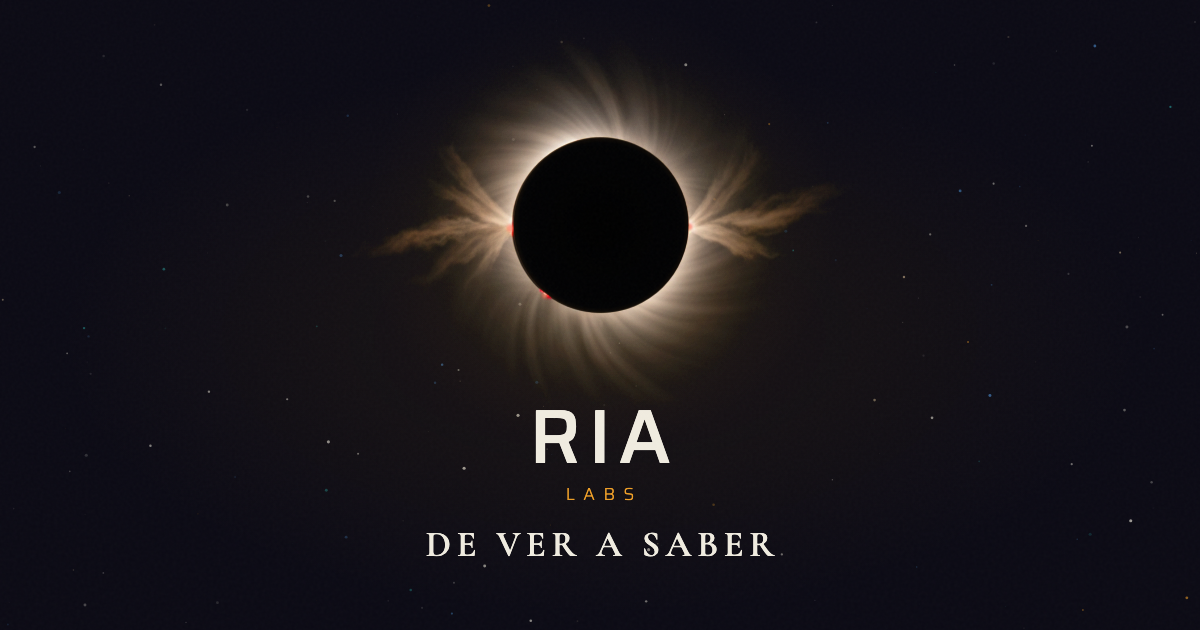
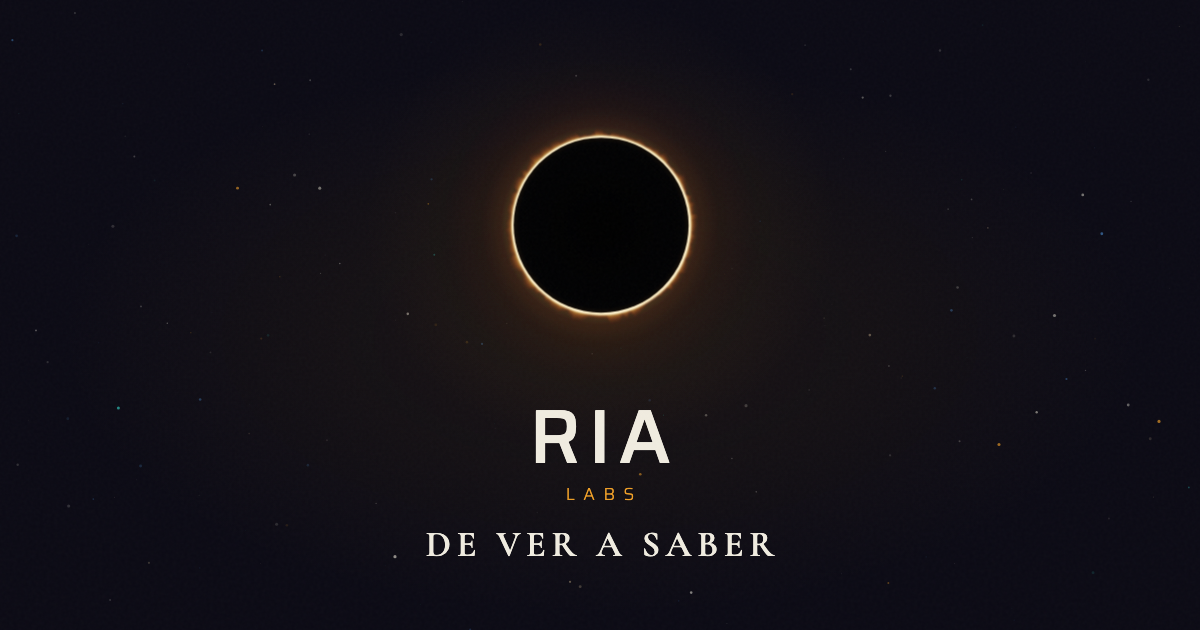
CONTENIDO y tarjeta OG: el pulido del hero (flama ecuánime, estrella, desenclipsar apagado, anillo, fuera Byte × VRIO)
§0.1 el pulido con técnica y períodos; §0.3 assets (la corona fotográfica ya no se carga, sol y luna en data-href,
el anillo, el favicon, capturar-home con estrella=); §0.4 pendientes nuevos (favicon.ico, PNG de los lockups,
menciones a Byte y VRIO que quedan, la nav si vuelve el ciclo); §9.3 el anillo; og-image.png regenerada con la
flama y sin estrella.

Changed region(s): [[0.3083, 0.1206, 0.6783, 0.6032]]

diff --git a/CONTENIDO.md b/CONTENIDO.md
@@ -100,6 +100,51 @@
   `defs` porque los usa el diagrama de Dataflow. Vuelve en la banda de Dataflow como el motor, en el
   separador de Equipo (Byte y VRIO, heredado de v4) y en los dos retratos: esos siguen vectoriales. Cómo se
   generó, qué se eligió y qué costó: §0.3.
+- **Pulido del hero** (rama `hero-pulido`, 2026-10-13; pedido verbatim de Matías en el registro de prompts: *«el
+  juego del click y la orbita del ente eclipsante lo vamos a apagar por ahora… la flama en el aureola del eclipse es
+  exagerada, prefiero que no haya flama o si la hay que sea ecuanime en todo el diametro de la circunferencia y muy
+  sutil, y en movimiento… si cada tanto puede asomar una estrella de luz… la screen 2 es una idea que me gusta como
+  logo»*; las tres capturas de referencia quedaron en `_capturas/referencias-eclipse/`, fuera de git). Cinco cosas:
+  - **La corona es una flama ecuánime, procedural.** Fuera la foto con streamers (`assets/eclipse-corona.webp` queda
+    en el repo, pero la página ya no la carga). En su lugar un `<canvas>` (`#sis-flama`, script «FLAMA») debajo del
+    SVG, centrado en la luna y siguiéndola en su libración, así el aro queda parejo: para cada ángulo, un hilo de luz
+    amarillo pálido pegado al limbo (una campana de 1,5 px a 0,9 px del borde negro, con el brillo modulado ±8 %) y una
+    lengua corta —de 4,5 a 17 % del radio— que va del amarillo pálido al ámbar, al naranja y al rojo, cuyo largo sale
+    de dos octavas de ruido periódico: 48 y 144 puntos de control alrededor del aro, cada uno pasando de un valor al
+    azar al siguiente (smoothstep) en 1,4–3,2 s y en 0,5–1,2 s, y las dos octavas derivando despacio en sentidos
+    opuestos (una vuelta en 240 s y en 150 s). Titila sin saltos y la turbulencia recorre el borde. Se pinta por píxel
+    sobre una lista fija del anillo (distancia al limbo y ángulo de cada píxel, precalculada al medir: ~80 mil píxeles
+    a 1440) con dos tablas de color, a 24 fps y sólo con el hero a la vista y la pestaña visible; DPR tope 2 y lado
+    tope 640 px. Alrededor, `#sis-aureola`: un gradiente radial rojizo en CSS que respira en 7 s y de día se apaga.
+    Las tres protuberancias rojas del SVG se fueron (la flama es pareja, sin accidentes). Sin canvas, vuelve el halo
+    vectorial (`.sin-corona`). De lejos se lee como un aro de luz fino y vivo, no como fuego; de cerca, como la
+    screen 3. Pesa cero: no hay imagen.
+  - **La estrella de luz.** Cada tanto asoma en un punto del borde (`#sis-estrella`, script «ESTRELLA»): un núcleo
+    blanco que crece en el primer tercio y se apaga en los dos restantes (3,2 s), seis rayos de lente finos con
+    degradé a la punta (uno largo, de 150 unidades; el conjunto rota al azar ±45°) y un glare suave de 64 unidades.
+    La primera a los 4,5 s de cargar; después a intervalos irregulares de 25 a 60 s, nunca dos seguidas a menos de 50°
+    una de otra, sólo con el hero a la vista, la pestaña visible y en noche. `?estrella=<ms>` la fija en ese instante
+    arriba a la derecha (1000 = el pico) para fotografiarla; `?estrella=no` la apaga. Con `prefers-reduced-motion`:
+    sin estrella, flama quieta (un cuadro) y aureola sin respirar.
+  - **El desenclipsar está apagado, no borrado.** `DESENCLIPSAR_ACTIVO = false` al principio de la IIFE: el ciclo
+    entero sigue en el código, sin disparadores —ni clic en el eclipse, ni en el logo (que vuelve a ser sólo el enlace
+    a `#inicio`), ni botón accesible, ni `aria-pressed`, ni cursor, ni la pista «tocá el eclipse»—. Los tres elementos
+    del SVG (`#sis-anillo`, `#sis-hint`, `#sis-hit`) y el botón `.ecl-btn` salieron del DOM; un comentario en el hero
+    los guarda textualmente y sus reglas CSS siguen. Los ganchos `?tema=dia` y `?ciclo=<ms>` andan para probarlo.
+    Para reactivar: la constante en `true` y devolver esos cuatro elementos. Lo que no vuelve solo: el isotipo de la
+    nav ya es el anillo y no tiene luna que acompañe el viaje (el ciclo lo tolera: `navLuna` queda en null). Las
+    fotos del sol y de la luna viajera (`eclipse-sol.webp`, `eclipse-luna.webp`) ya no se descargan al cargar la
+    página: van en `data-href` y el ciclo (o `?tema=dia`) las pide cuando las necesita.
+  - **El logo es el anillo** (la screen 2; §9.3 y `logos/README.md`). En la página, con mesura: el isotipo de la nav
+    (24 px, grosor 7,5 de 100 para que a ese tamaño siga siendo un aro), el pie (18 px, al 80 %), el `favicon.svg`
+    (grosor 9) y el separador entre Equipo y Contacto (58 px). El hero sigue siendo el eclipse grande, no el logo.
+  - **Fuera Byte × VRIO** (pedido de Matías del mismo día: *«vamos también a sacar las menciones a Byte y a VRIO de
+    la página»*): la línea `.hero-origin` del hero («Byte × VRIO», con enlaces a compu-byte.com.ar y vrio.ar) se fue
+    con su CSS; el pie dice «© 2026 RIA Labs · Rosario, Argentina»; el separador orbital de Equipo (los planetas Byte
+    y VRIO alrededor del eclipse, heredado de v4, con sus gradientes `vrio-grad`/`byte-grad` y su script) es ahora
+    el anillo solo (`#equipo-anillo`). Quedan para otra pasada la meta description («Nacidos de Byte y VRIO»), las
+    bios de Equipo (la casa Byte de Sebastián, VRIO Estudio en la de Matías) y el Laboratorio («dos puertas en
+    Rosario»).
 - **Cada vertical es un astro vivo con sus sabores en órbita** (viñeta `.prod-vis` de cada banda, SVG propio de
   480×400, vanilla; la superficie la arma y la mueve el script, según `data-astro`). El astro lleva la tecnología
   de la vertical en su superficie, en línea técnica sobre la esfera, no como ícono, y **se mueve**: mirarlo es
@@ -260,11 +305,13 @@
   la melena vuela al viento de un ventilador, el eclipse chico y al fondo, el mismo en los dos— y el jpg adentro
   como fallback. Arranca solo a la vista, se pausa al salir, y con `prefers-reduced-motion` queda la foto. Cómo
   se hizo y qué se midió, en §0.3.
-- **Nav**: Analítico · Espacio · Automoción (con el punto de color de cada uno) · Dataflow · Laboratorio ·
+- **Nav** (el isotipo es el anillo desde el 13/10): Analítico · Espacio · Automoción (con el punto de color de cada uno) · Dataflow · Laboratorio ·
   Equipo · *Conversemos*. En ≤860 px hay botón MENÚ con panel desplegable (v4 escondía los enlaces).
 - **Contacto**: el pre-título ahora es la pregunta del laboratorio («¿Tenés un problema que nadie resolvió?»)
-  y vuelve el copete de cierre. Footer © 2026.
-- **Desenclipsar: el eclipse se toca** (rama `desenclipsar`, 2026-10-10; pedido verbatim en el registro de
+  y vuelve el copete de cierre. Footer © 2026 (desde el 13/10, «© 2026 RIA Labs · Rosario, Argentina»: sin Byte × VRIO,
+  y con el anillo delante del wordmark).
+- **Desenclipsar: el eclipse se toca** — **apagado desde el 13/10** (`DESENCLIPSAR_ACTIVO = false`; ver el pulido
+  del hero, arriba; lo que sigue describe el ciclo tal como queda en el código) (rama `desenclipsar`, 2026-10-10; pedido verbatim en el registro de
   prompts). Un clic en el centro del eclipse del hero, o en el isotipo + wordmark de la nav (que sigue
   llevando a `#inicio`), dispara **un ciclo completo, no un toggle**: la luna sale del disco hacia la
   izquierda en trayectoria elíptica —*destape*, ~2,5 s, en los que el sol se enciende (disco, resplandor,
@@ -316,13 +363,15 @@
 | `assets/retrato-sebastian.mp4` / `.webm` · `assets/retrato-matias.mp4` / `.webm` | **retratos vivos** (2026-10-11): clips 720×900, 24 fps, en loop (9,67 s y 10,25 s), H.264 `yuv420p` sin audio + VP9. Sebastián 1,09 MB / 0,90 MB · Matías 0,83 MB / 0,65 MB |
 | `assets/retrato-sebastian-sobrio.jpg` · `assets/retrato-matias-sobrio.jpg` | la familia **sobria**: los mismos retratos sin la melena (~82 KB y ~79 KB, con el mismo eclipse unificado). Para cambiar de familia alcanza con renombrar; la sobria no tiene clip |
 | `scripts/generar-retratos-vivos.py` | cómo se hicieron el eclipse unificado y los retratos vivos (abajo): `fondo`, `video`, `post`, y `costura` para medir el loop |
-| `assets/eclipse-corona.webp` · `.jpg` | **la corona de la totalidad** (2026-10-12): WebP 1000×1000 con alfa desde la luminancia, 150 KB, el disco negro centrado a r = 0,1515 del lado. El jpg (37 KB) es la misma toma sobre negro, de respaldo y referencia; la página no lo usa |
-| `assets/eclipse-sol.webp` | la fotósfera en luz blanca, 720×720, alfa = disco (r = 0,4873 del lado), 20 KB |
-| `assets/eclipse-luna.webp` | la luna llena teñida al dorado, 720×720, alfa = disco, 22 KB: la cara iluminada de la luna viajera |
+| `assets/eclipse-corona.webp` · `.jpg` | **la corona fotográfica** (2026-10-12): WebP 1000×1000 con alfa desde la luminancia, 150 KB, el disco negro centrado a r = 0,1515 del lado. El jpg (37 KB) es la misma toma sobre negro. **Desde el 13/10 la página no carga ninguno de los dos** (la corona es la flama procedural); quedan en el repo por si el ciclo o la foto vuelven |
+| `assets/eclipse-sol.webp` | la fotósfera en luz blanca, 720×720, alfa = disco (r = 0,4873 del lado), 20 KB. Desde el 13/10 va en `data-href`: se descarga sólo cuando el ciclo o `?tema=dia` la piden |
+| `assets/eclipse-luna.webp` | la luna llena teñida al dorado, 720×720, alfa = disco, 22 KB: la cara iluminada de la luna viajera. Desde el 13/10, `data-href` como la del sol |
+| `logos/ria-anillo-{color,blanco,negro,outline}.svg` · `logos/ria-anillo-lockup-horizontal-{color,blanco,negro,outline}.svg` | **el isotipo anillo** (2026-10-13, la screen 2 de Matías) y su lockup horizontal con el wordmark en Saira; §9.3 y `logos/README.md`. PNG de los cuatro isotipos a 256/512/1024/2048 en `logos/png/` (`bash logos/build-pngs.sh ria-anillo-color.svg …`, ahora con fallback a Chrome headless si no hay cairosvg). Los lockups no tienen PNG: sin Saira instalada saldrían con otra fuente |
+| `favicon.svg` | el anillo (grosor 9 de 92, un poco más grueso que el de marca, para que a 16 px siga siendo un aro). Hasta el 13/10, el eclipse de halos de v4. `favicon.ico` y `ria-favicon/` siguen siendo los viejos |
 | `scripts/generar-eclipse.py` | cómo se generaron y procesaron las tres (abajo): `corona`, `sol`, `luna`, `medir`, `post-*`, `hoja` |
-| `og-image.png` | tarjeta 1200×630: el eclipse solo + RIA Labs + «DE VER A SABER» en Cormorant (`OG=1 scripts/capturar-home.sh v5`; el modo OG esconde además la pista «tocá el eclipse»). Regenerada el 10/10 con el titular nuevo y el 12/10 con el eclipse cinemático. La anterior quedó en `og-image-v4.png` |
+| `og-image.png` | tarjeta 1200×630: el eclipse solo + RIA Labs + «DE VER A SABER» en Cormorant (`OG=1 scripts/capturar-home.sh v5`; el modo OG esconde además la pista «tocá el eclipse»). Regenerada el 10/10 con el titular nuevo, el 12/10 con el eclipse cinemático y el 13/10 con la flama ecuánime (sin estrella: `QUERY=estrella=no`). ~600 KB (el cielo con ruido no comprime). La anterior quedó en `og-image-v4.png` |
 | `scripts/generar-retratos.py` | cómo se hicieron los retratos (abajo) |
-| `scripts/capturar-home.sh` | fotografía la home completa con Chrome headless (desktop 1440 y móvil 390 por iframe; `OG=1` también la tarjeta, con el eclipse a 320 px; `QUERY=tema=dia`, `QUERY=ciclo=4200` o `QUERY=t=43200000` fotografía el día, un instante del ciclo del eclipse o la página con el reloj adelantado (astros y banda Dataflow), `NOMBRE=dia` nombra los PNG; `ALTO=9600` para la página entera). Levanta su propio `http.server` en 8895–8899 y lo mata por PID |
+| `scripts/capturar-home.sh` | fotografía la home completa con Chrome headless (desktop 1440 y móvil 390 por iframe; `OG=1` también la tarjeta, con el eclipse a 320 px; `QUERY=tema=dia`, `QUERY=ciclo=4200`, `QUERY=t=43200000` o `QUERY=estrella=1000` / `estrella=no` fotografía el día, un instante del ciclo del eclipse, la página con el reloj adelantado (astros y banda Dataflow) o la estrella de luz del hero fija en su pico / apagada (sin QUERY sale apagándose: la primera asoma a los 4,5 s y Chrome fotografía a los ~6); la QUERY aplica también a la tarjeta OG; `NOMBRE=dia` nombra los PNG; `ALTO=16000` para la página entera, que mide ~11.300 px en desktop desde el 13/10). Levanta su propio `http.server` en 8895–8899 y lo mata por PID |
 
 **Retratos (2026-10-10).** Generados con `google/nano-banana` vía Replicate (token en
 `~/.credentials/replicate.env`) a partir de las fotos reales de `~/dev/RIALabs/Fotos/` (`otra.jpeg` y
@@ -452,6 +501,21 @@ en las capturas del ciclo el tema ya está en día desde el primer cuadro (el sc
 diamante del destape (730 ms) se fotografía sobre papel aunque en el navegador ocurre todavía sobre noche; y el limbo de la
 fotósfera de día es marrón, como lo trajo la foto, lo que se lee como oscurecimiento al limbo pero podría aclararse en post.
 
+**La flama ecuánime, la estrella y el anillo (2026-10-13, rama `hero-pulido`).** Técnica y períodos en §0.1 (pulido del
+hero). Se eligió el canvas procedural y no una imagen generada porque lo que Matías pidió es control —sutileza pareja y
+movimiento sin saltos—, y una foto de nano-banana trae accidentes (lenguas largas, zonas más densas) que después hay que
+disimular; además pesa cero y sigue a la luna. Lo verificado en captura (desktop 1440, móvil 390, noche con y sin
+estrella, `?tema=dia`, `prefers-reduced-motion` forzado, OG y la página entera, sin `Uncaught` en el log de Chrome): de
+noche el aro se lee fino, parejo y vivo, con el hilo pálido en el limbo y las lenguas cortas de ámbar a rojo; la estrella
+asoma con su núcleo, sus seis rayos y el glare y se lee como la screen 1; de día queda el sol con su resplandor, la flama
+y la aureola apagadas; con reduced-motion la flama es un cuadro quieto y no hay estrella; el anillo se ve en la nav, en el
+pie, en el separador y en el favicon a 16/32/64 px sobre oscuro y sobre blanco; la página no descarga
+`eclipse-corona.webp`, `eclipse-sol.webp` ni `eclipse-luna.webp` al cargar. Las capturas quedaron en
+`_capturas/hero-pulido/` (ignorado). Lo que queda dudoso: la lengua más larga (17 % del radio) y el alfa del rojo se
+calibraron mirando capturas fijas, no el movimiento; si en el navegador la flama se siente demasiado quieta o demasiado
+viva, los diales son `LMIN`/`LMAX`, las duraciones de las dos octavas y la deriva (`omega`) al principio del script
+«FLAMA».
+
 ### 0.4 Pendientes que deja la v5
 
 - Renombrar *RIA Comms* → *RIA Diálogo* en `/laboratorio/` (y decidir si va *Diálogo* o *Comunicación*).
@@ -466,9 +530,17 @@ fotósfera de día es marrón, como lo trajo la foto, lo que se lee como oscurec
   desde la expedición 04. Decidir si se enlazan.
 - El satélite **Acceso** de RIA Espacio no enlaza a nada: Rosental y Mercado Fisherton son instalaciones con
   login. Cuando Acceso tenga página pública, es agregarle el `href`.
-- El eclipse del separador de Equipo sigue vectorial (anillos de trazo); el del hero ya es fotográfico. Si se quiere
-  unificar, el camino es la misma corona con alfa (`assets/eclipse-corona.webp`) escalada a su viewBox. (El de la
-  banda Dataflow se fue con la banda-historia el 12/10.)
+- El separador de Equipo es el anillo (el isotipo) desde el 13/10; el eclipse vectorial que tenía, y el de la banda
+  Dataflow, ya no están en la página.
+- `favicon.ico` y la carpeta `ria-favicon/` siguen siendo el eclipse de halos viejo; `favicon.svg` ya es el anillo.
+  Regenerar el `.ico` (y los PNG de `ria-favicon/`) desde `favicon.svg`.
+- Los lockups con el anillo (`logos/ria-anillo-lockup-horizontal-*.svg`) no tienen PNG: hace falta Saira instalada
+  para que el wordmark salga fiel (`logos/build-pngs.sh`).
+- Quedan menciones a Byte y VRIO fuera del hero, el pie y el separador: la meta description («Nacidos de Byte y
+  VRIO»), las fichas de Equipo (la casa Byte de Sebastián, VRIO Estudio en la bio de Matías) y el Laboratorio («dos
+  puertas en Rosario: Byte… y VRIO»). Es otra pasada.
+- Si el desenclipsar vuelve (`DESENCLIPSAR_ACTIVO = true`), el isotipo de la nav —hoy el anillo— ya no tiene luna que
+  acompañe el viaje; decidir si el anillo acompaña de otra forma o no acompaña.
 - Los contadores de la banda Dataflow proyectan la lectura del tablero del 10/10/2026 (§0.5): cada tanto conviene
   cargar una lectura nueva (constantes al principio del script «DATAFLOW · la onda» y la fecha en `.df-nota`), porque
   con los meses la proyección se aleja de lo medido. Y la curva horaria es plausible, no medida: cuando el tablero
@@ -970,6 +1042,18 @@ Frase central (v2, resumen de la ventaja competitiva):
 - **v5 desde 2026-10-12:** el hero es un eclipse cinemático en capas (foto de la corona con alfa + fotósfera + luna negra,
   §0.1), y el isotipo de la nav, inline en `v5/index.html`, es una corona de luz con un streamer ecuatorial y la luna
   negra centrada (24 px). Dataflow y Equipo conservan el eclipse vectorial.
+- **El anillo (2026-10-13, rama `hero-pulido`) — el isotipo nuevo.** Sale de una referencia que Matías trajo («la
+  screen 2 es una idea que me gusta como logo»): una circunferencia limpia de grosor uniforme, sin relleno, con
+  degradé lineal vertical amarillo → naranja → rojo. Medido en la referencia: grosor 6,3 % del diámetro exterior, el
+  amarillo se sostiene en el 10 % de arriba y pasa rápido al naranja hacia el 30 %, después baja despacio al rojo.
+  Construcción (`logos/ria-anillo-color.svg`, viewBox 100): círculo r 43, trazo 6 (exterior 46, interior 40), gradiente
+  `#f8df6a` (0) → `#e4753d` (0,3) → `#d35745` (0,62) → `#c54a45` (1). Variantes `blanco`, `negro`, `outline` (los dos
+  bordes en `currentColor`) y lockup horizontal con el wordmark RIA Labs en Saira
+  (`ria-anillo-lockup-horizontal-*.svg`, misma caja de 640×180 que el lockup vigente). Convención y usos en
+  `logos/README.md`. En la página: isotipo de la nav (24 px, trazo 7,5), pie (18 px, al 80 %), `favicon.svg` (trazo 9)
+  y el separador entre Equipo y Contacto (`#equipo-anillo`). El hero sigue siendo el eclipse —la flama ecuánime sobre
+  la luna negra— y no el logo; el anillo es la versión gráfica, plana, de esa misma figura. Los isotipos `ria-isotipo-*`
+  (el eclipse de halos de v4) siguen en la carpeta como histórico.
 
 ### 9.4 Lenguaje visual
 
@@ -994,7 +1078,7 @@ Frase central (v2, resumen de la ventaja competitiva):
 | `assets/equipo-sebastian.jpg` | 52 KB | Retrato de Sebastián Acedo · 360×360, sección Equipo del home |
 | `assets/equipo-matias.jpg` | 50 KB | Retrato de Matías Gallego · 360×360, sección Equipo del home |
 | `assets/ria-labs-eclipse-icon.svg` | 645 B | Icono del eclipse (vector) |
-| `og-image.png` (raíz) | 137 KB | Open Graph 1200×630 para WhatsApp / Twitter Card |
+| `og-image.png` (raíz) | ~600 KB desde v5 (cielo con ruido) | Open Graph 1200×630 para WhatsApp / Twitter Card |
 
 ### 10.2 Favicon system (`ria-favicon/`)
 
